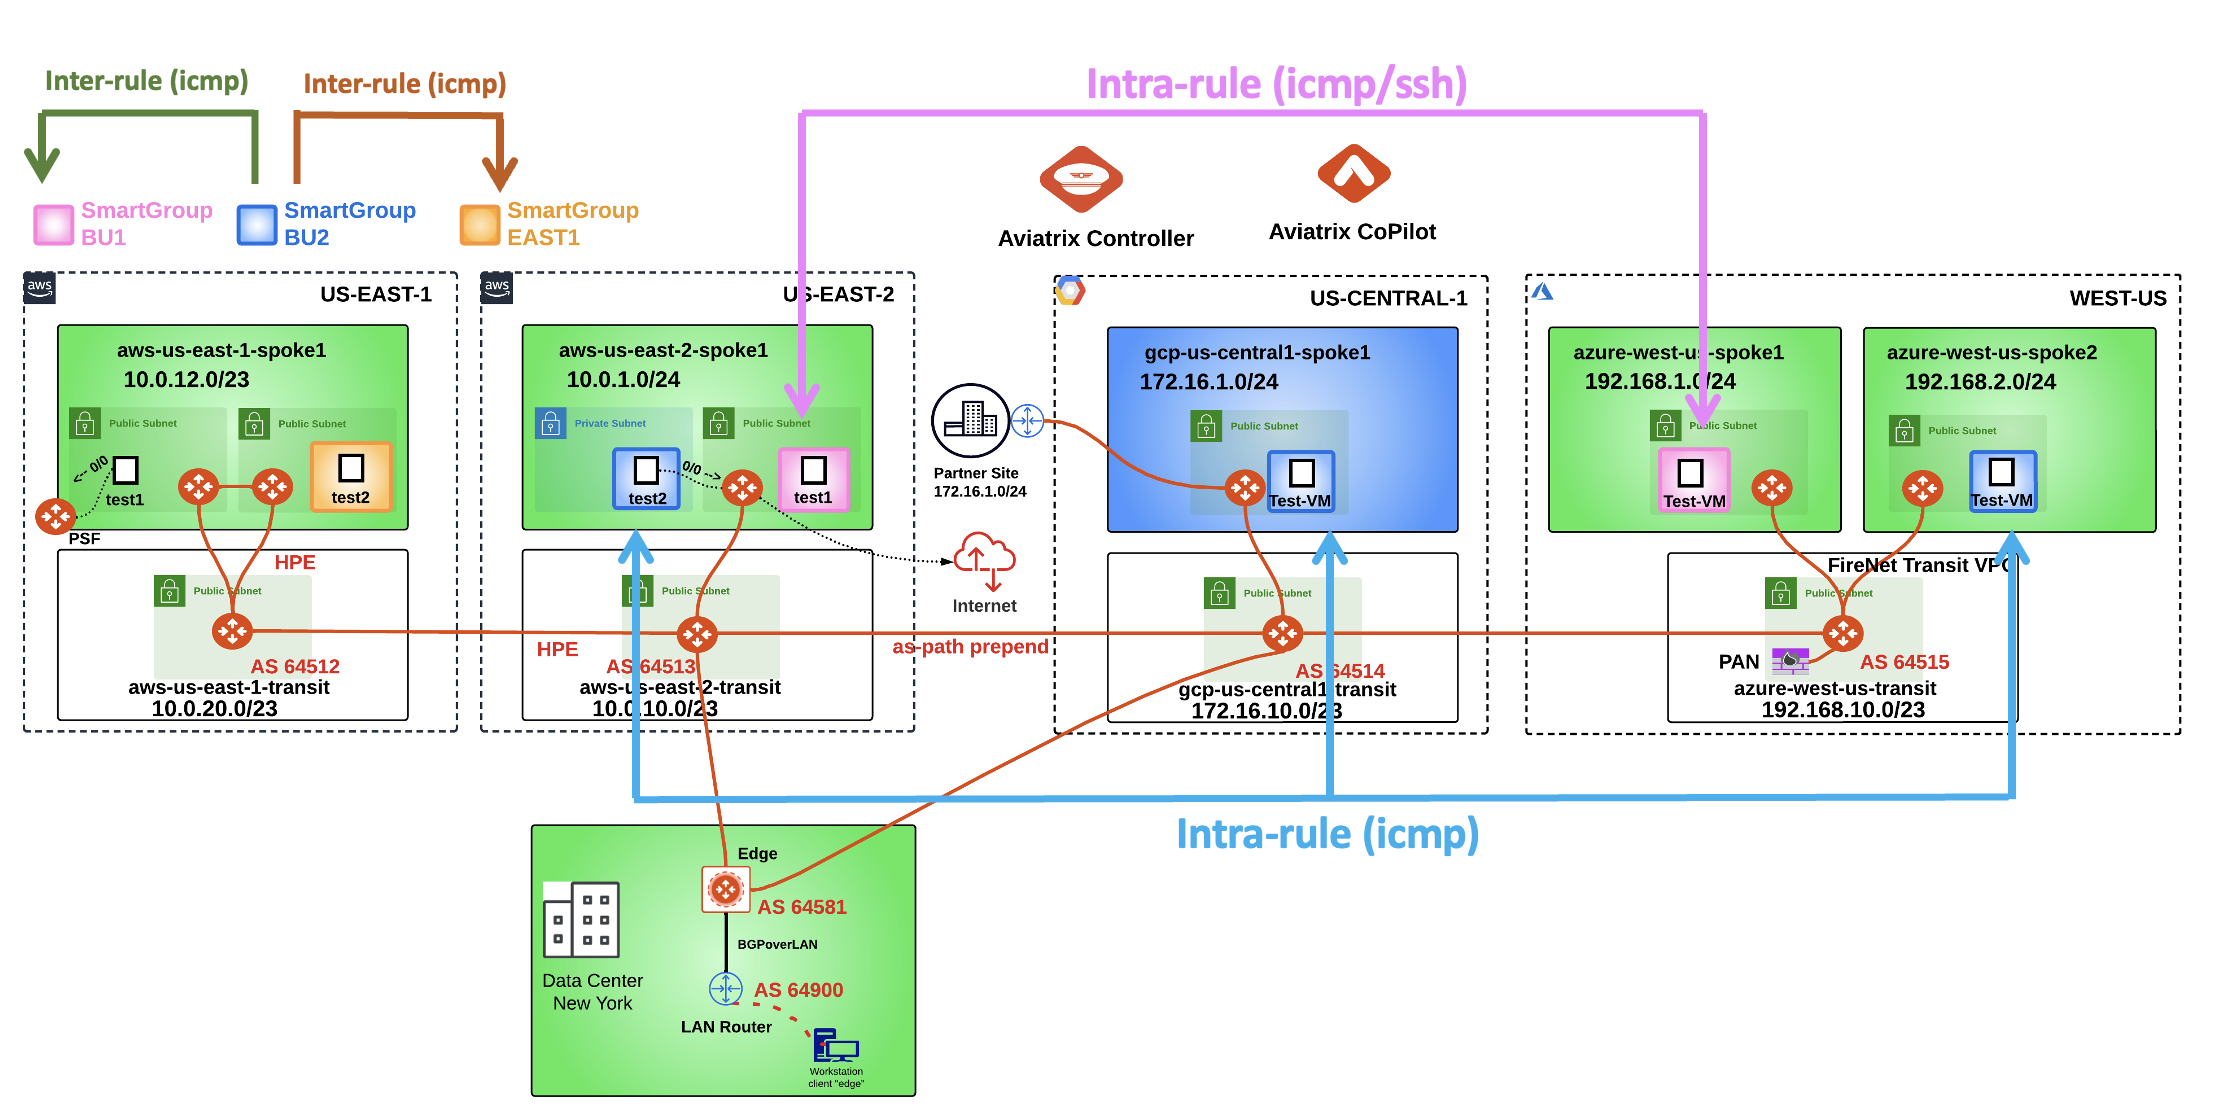
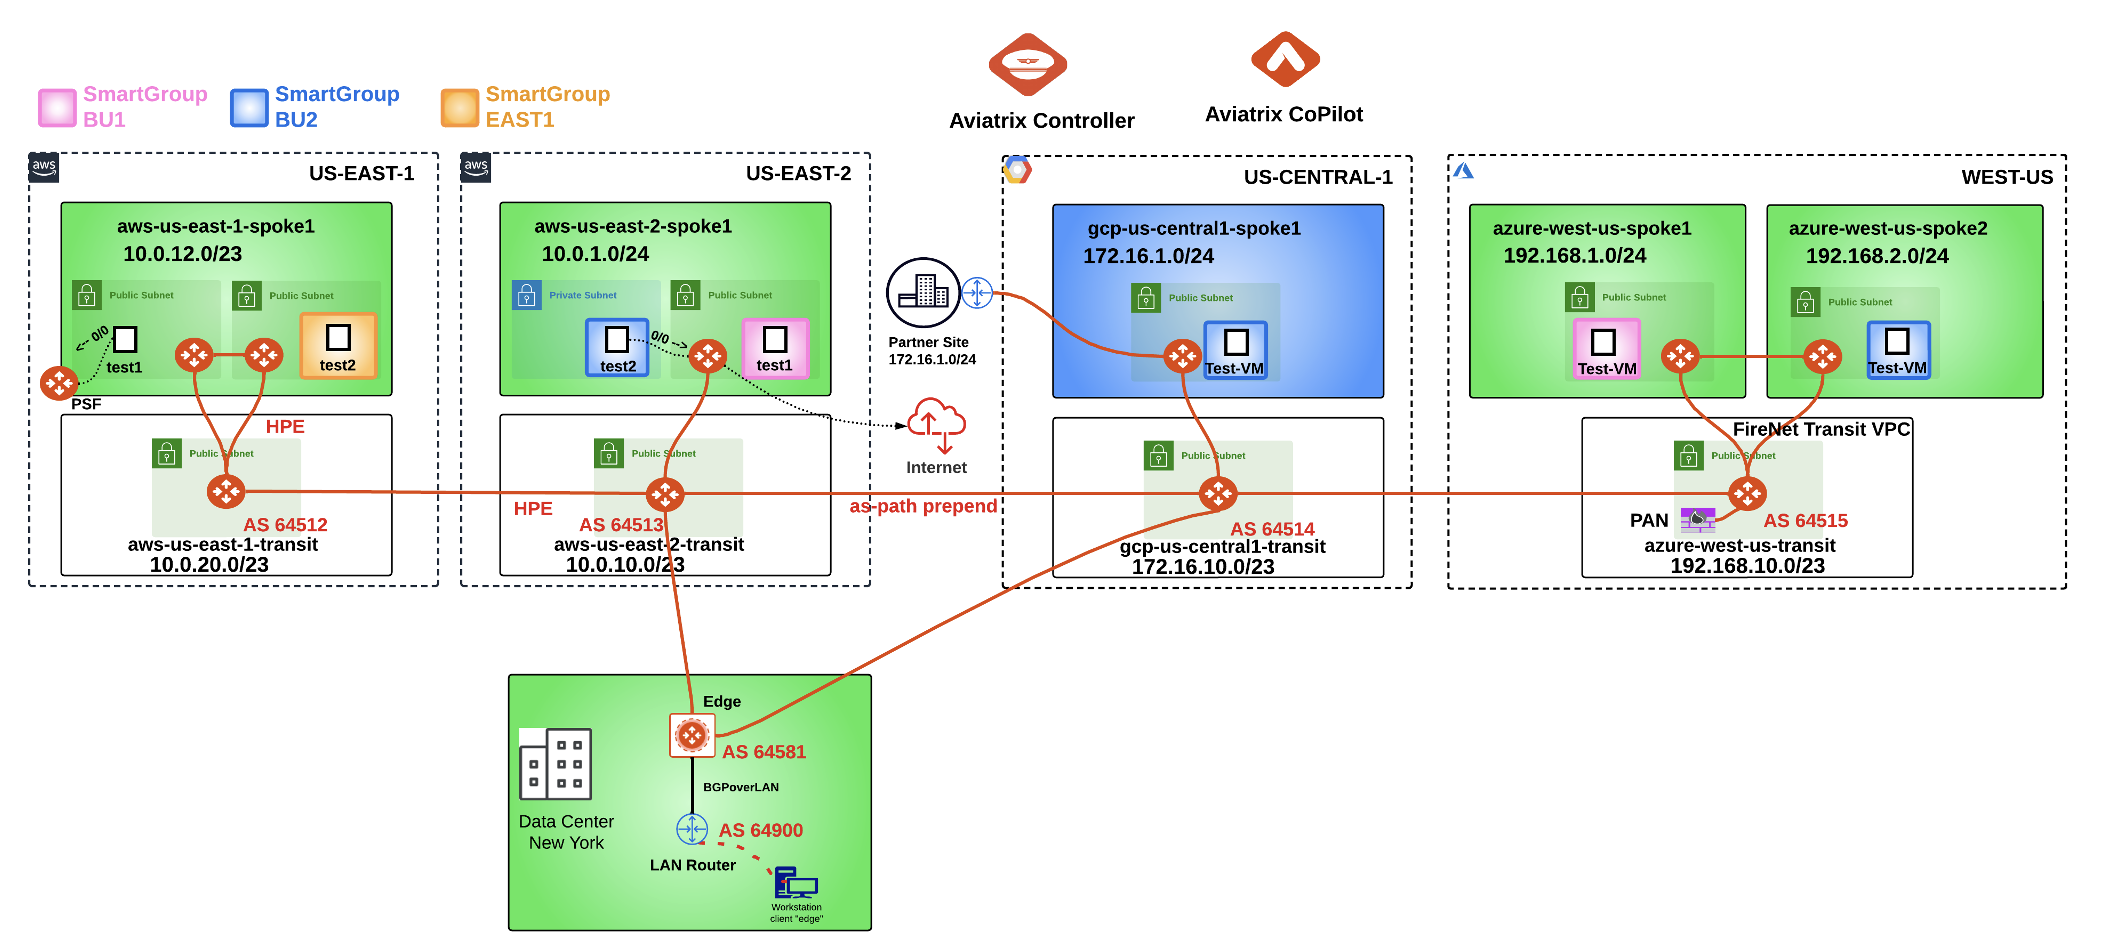
last update for pro

Changed region(s): [[0.0, 0.0305, 0.9886, 1.0], [0.9577, 0.6092, 0.9886, 0.6397], [0.6797, 0.1523, 0.7106, 0.1828]]

diff --git a/ace_pro/docs/lab10.md b/ace_pro/docs/lab10.md
@@ -41,7 +41,7 @@ align: center
 Initial Topology Lab 10
 ```
 
-## 3. Smart Group Creation
+## 3. Smart Groups Creation
 
 Create two Smart Groups and classify each Smart Group, leveraging the CSP tag `"environment"`:
 
@@ -217,7 +217,7 @@ SSH to AWS us-east-1-spoke1-test2
 
 The previous outcomes confirm undoubtetly that the connectivity is working smoothly, despite the creation of those two new Smart Groups.
 
-## 4. Rules Creation
+## 4. DCF Rules Creation
 ### 4.1. Build a Zero Trust  Network Architecture
 
 First and foremost, let's move the `Explicit-Deny-Rule` at the very top of the list of your DCF rules.
@@ -905,6 +905,81 @@ Go to **CoPilot > Security > Distributed Cloud Firewall > Monitor**
 align: center
 ---
 inter-icmp-bu2-east1 Logs
+```
+
+## 7. Spoke to Spoke Attachment
+
+Now that you have enabled the Distributed Cloud Firewall, the owner of the **_azure-west-us-spoke2-test1_** VM would like to communicate directly with the nearby **_azure-west-us-spoke1-test1_** VM, avoding that the traffic generated from the VPC is sent to the NGFW, first.
+
+```{figure} images/lab10-spoke2spoke01.png
+---
+align: center
+---
+No More NGFW
+```
+
+### 7.1 Creating a Spoke to Spoke Attachment
+
+Go to **Copilot > Cloud Fabric > Gateways > Spoke Gateways**, locate the **_azure-west-us-spoke2_** GW and click on the **`Manage Transit Gateway Attachment`** icon on the right side of its row.
+
+```{figure} images/lab10-spoke2spoke02.png
+---
+align: center
+---
+Manage Transit Gateway Attachment
+```
+
+Select the **Spoke Gateway** tab and then choose the **azure-west-us-spoke1** GW from the drop-down window.
+
+Do not forget to click on **Save**.
+
+```{figure} images/lab10-spoke2spoke03.png
+---
+align: center
+---
+azure-west-us-spoke1
+```
+
+Now go to Cloud Fabric > Topology and check the new attachment between the two Spoke Gateways in Azure.
+
+```{figure} images/lab10-spoke2spoke04.png
+---
+align: center
+---
+Spoke to Spoke Attachment
+```
+
+```{caution}
+It will take approximately **2** minutes to reflect into the Topology.
+```
+
+Let's check the routing table of the Spoke2 in Azure.
+
+Go to **CoPilot > Cloud Fabric > Gateways** and select the **azure-west-us-spoke2**.
+
+```{figure} images/lab10-spoke2spoke05.png
+---
+align: center
+---
+azure-west-us-spoke2
+```
+
+Now select the **Gateways Routes** tab and search for the subnet **`192.168.1.0`** on the right-hand side.
+
+You will notice that the destination is now reachable with a lower metric (50)!
+
+```{figure} images/lab10-spoke2spoke06.png
+---
+align: center
+---
+Metric 50
+```
+
+```{figure} images/lab10-spoke2spoke07.png
+---
+align: center
+---
+Spoke to Spoke
 ```
 
 `Congratulations, you have deployed the full-blown Aviatrix solution!`

diff --git a/ace_pro/docs/home.md b/ace_pro/docs/home.md
@@ -63,6 +63,7 @@ By the end of **Day 3**, each student will be able to deploy and verify the foll
 - CostIQ 
 - Distributed Cloud Firewall
 - Multi-Tier Transit
+- Spoke to Spoke Attachment
 
 ```{figure} images/home-finaltopology.png
 ---
